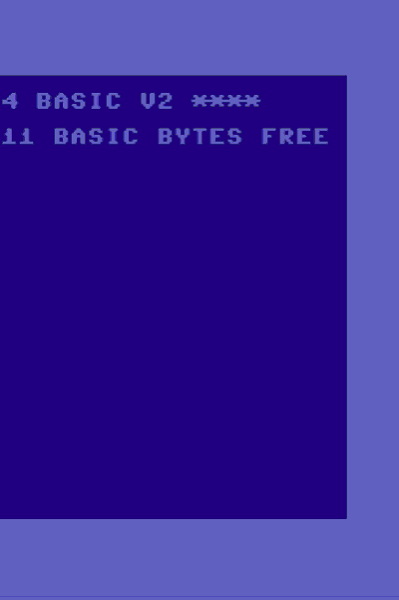
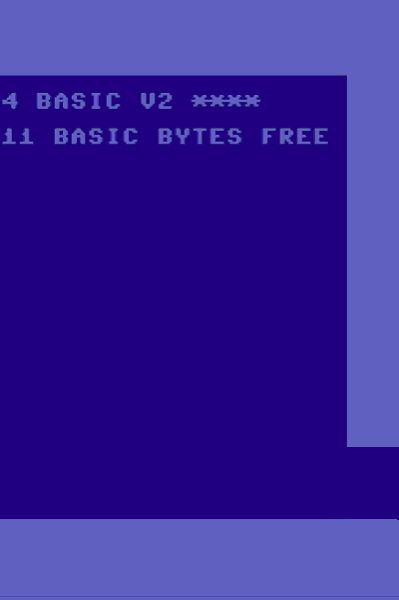
scroll-up-and-left

Changed region(s): [[0.8722, 0.72, 1.0, 0.87]]

diff --git a/games-anims/transition_scroll.py b/games-anims/transition_scroll.py
@@ -1,0 +1,78 @@
+import pygame
+import sys
+
+SCREEN_WIDTH = 800
+SCREEN_HEIGHT = 600
+LIGHT_BLUE = (96, 96, 192)
+
+pygame.init()
+clock = pygame.time.Clock()
+screen = pygame.display.set_mode((SCREEN_WIDTH, SCREEN_HEIGHT))
+pygame.display.set_caption("Scroll and Fill")
+
+def scroll_right():
+    scroll_distance = 0
+    scroll_speed = 1 / 3
+    c64half_x = - SCREEN_WIDTH // 2
+    screenshot = pygame.Surface((SCREEN_WIDTH, SCREEN_HEIGHT))
+    screenshot.blit(screen, (0, 0))
+    
+    bitmap = pygame.Surface((3 * SCREEN_WIDTH // 2, SCREEN_HEIGHT))    
+    bitmap.blit(c64half, (0, 0))
+    bitmap.blit(screenshot, (SCREEN_WIDTH // 2 - 1, 0))
+    while c64half_x < 0:
+        for event in pygame.event.get():
+            if event.type == pygame.QUIT:
+                pygame.quit()
+                sys.exit()
+                        
+        screen.blit(bitmap, (c64half_x, 0))
+        pygame.display.flip()
+
+        c64half_x += scroll_speed
+        scroll_distance += scroll_speed
+
+        if scroll_distance >= SCREEN_WIDTH:
+            break
+
+def scroll_and_fill():
+    screenshot = None
+    scroll_distance = 0
+    
+    running = True
+
+    TOTAL_DISTANCE = 12
+    
+    while running:
+        for event in pygame.event.get():
+            if event.type == pygame.QUIT:
+                running = False
+
+        screenshot = pygame.Surface((SCREEN_WIDTH, SCREEN_HEIGHT))
+        screenshot.blit(screen, (0, 0))
+
+        if scroll_distance < TOTAL_DISTANCE:
+            scroll_distance += 1
+            screen.fill(LIGHT_BLUE)
+            screen.blit(screenshot, (0, -scroll_distance))
+            
+        if scroll_distance == TOTAL_DISTANCE:
+            scroll_right()
+            running = False
+
+        pygame.display.flip()
+        clock.tick(9)
+
+if __name__ == "__main__":
+    background_image = pygame.image.load("demo2/src/main/resources/amiga.png")
+    screen.blit(background_image, (0, 0))
+    pygame.display.flip()
+
+    c64half = pygame.image.load("demo2/src/main/resources/c64half.png")
+
+    pygame.time.delay(2000) 
+    scroll_and_fill()
+    pygame.time.delay(5000)
+    
+    pygame.quit()
+    sys.exit()
